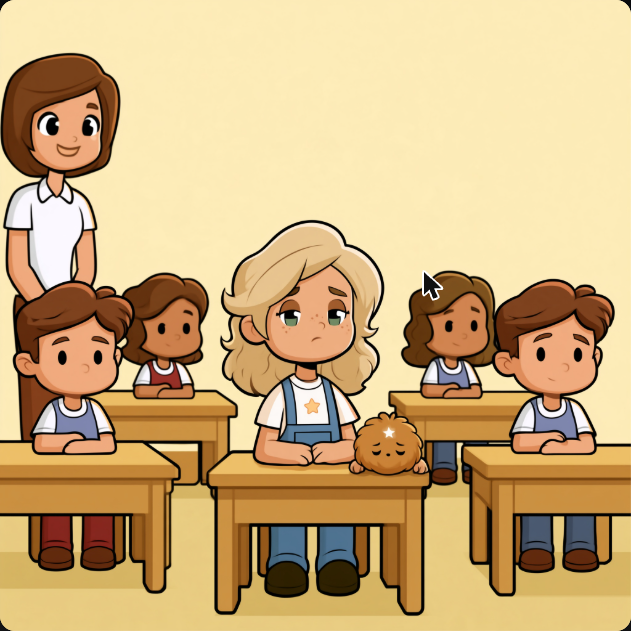
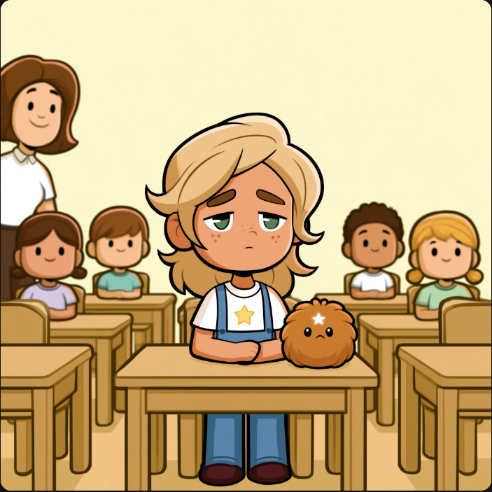
Strony 16–21: kandydaci wg rygoru twarzy / Pages 16–21: candidates with face rigor
Claude-Session: https://claude.ai/code/session_01J5W66USWz5i1aawWXjdiRy

diff --git a/strony/GOTOWE.md b/strony/GOTOWE.md
@@ -1,25 +1,19 @@
 # Strony książki / Book pages
-
 Lista stron: kandydaci (status „czeka”) i strony zaakceptowane (status „zaakceptowana”).
 List of pages: candidates (status "czeka" = waiting) and approved pages (status "zaakceptowana" = approved).
-
 ## Gdzie są pliki / Where the files are
-
 - **Pełna jakość (do druku)** / **Full quality (for print):** Midjourney → Organize → Folders → **„KSIAZKA strony gotowe”**.
   Każdy obrazek ma swój numer zadania (job ID) i numer wersji (index) w tabeli niżej.
   Each image has its job ID and version number (index) in the table below.
   Link do obrazka / Image link: `https://www.midjourney.com/jobs/<job ID>?index=<index>`
 - **Podgląd (mała jakość)** / **Preview (low quality):** folder `strony/gotowe/` w tym repozytorium.
   Podglądy służą tylko do sprawdzania, NIE do druku. / Previews are only for checking, NOT for print.
-
 > Dlaczego pełnej jakości nie ma na GitHubie? / Why is full quality not on GitHub?
 > Serwer Claude nie ma dostępu do plików Midjourney (cdn.midjourney.com jest zablokowany).
 > Na końcu, przy składaniu książki, pobierzemy cały folder „KSIAZKA strony gotowe” z Midjourney naraz.
 > Claude's server can't reach Midjourney files (cdn.midjourney.com is blocked).
 > At the end, when building the book, we download the whole "KSIAZKA strony gotowe" folder from Midjourney at once.
-
 ## Lista / List
-
 | Strona / Page | Co jest na obrazku / Scene | Job ID | Index | Podgląd / Preview | Status | Uwagi / Notes |
 |---|---|---|---|---|---|---|
 | 3–8 | (zrobione wcześniej przez użytkownika / made earlier by the user) | — | — | `strony/podglad/strona_03..08_podglad.png` | zaakceptowana | job ID do uzupełnienia / job IDs still to add |
@@ -30,7 +24,9 @@ List of pages: candidates (status "czeka" = waiting) and approved pages (status 
 | 13 | Kocyk na kanapie jak namiot, Amelia spokojna, Lumi świeci / Blanket tent on sofa, calm | 980e6b1a-c5dd-41c4-b972-1a4c0677e52c | 0 | `strony/gotowe/strona_13_podglad.png` | zaakceptowana (12.11) | dużo miejsca u góry / lots of space at top |
 | 14 | Przed szkołą, Amelia niepewna, Lumi wygląda zza ramienia / In front of school, unsure | 40a3b417-5055-4ad7-afef-1db0f47a8fa7 | 0 | `strony/gotowe/strona_14_podglad.png` | zaakceptowana (12.11) | wzór amelia_03_zagubiona; niebo na tekst / sky for text |
 | 15 | Hałaśliwy korytarz, dzwonek, dzieci biegną, Amelia zatyka uszy, kolczasty Lumi / Noisy hallway | 72abaa37-7648-4b52-bd94-1b7e57df71ef | 0 | `strony/gotowe/strona_15_podglad.png` | czeka | wzór amelia_04_halas; miejsce u góry / space at top |
-| 16 | Klasa widziana od tablicy, wszyscy przodem, Amelia zmęczona, Lumi leży na ławce / Classroom from the front | b9f29478-20a0-4c97-b4e0-8bc592d3c38f | 1 | `strony/gotowe/strona_16_podglad.png` | czeka | poprawione: wcześniej Amelia siedziała tyłem do klasy; tekst u góry po prawej |
-| 17 | Boisko, Amelia sama z kredą i gwiazdkami, dzieci daleko / Playground, alone with chalk | dd85807f-652d-41ca-a30b-5cdb489d79dc | 0 | `strony/gotowe/strona_17_podglad.png` | czeka | niebo na tekst / sky for text |
-| 18 | Pusty korytarz, Amelia idzie ze spuszczoną głową, gwiazdka Lumi zgasła / Empty corridor, head down | 3b381d58-7ac6-4d6a-9fec-2e3bfb702fb5 | 3 | `strony/gotowe/strona_18_podglad.png` | czeka | dużo miejsca u góry / lots of space |
-| 19 | Pod schodami, Amelia skulona płacze, Lumi obok / Under the stairs, crying | 54816de7-7665-4e3d-ac27-8494e29065c8 | 2 | `strony/gotowe/strona_19_podglad.png` | czeka | wzór amelia_07_placz_skulona; tekst w prawym górnym rogu |
+| 16 | Klasa widziana od przodu, wszyscy przodem, Amelia zmęczona, Lumi na ławce / Classroom from the front | d56fb3e3-5102-42a3-8a70-ac0041318324 | 2 | `strony/gotowe/strona_16_podglad.png` | czeka | 3. próba wg rygoru twarzy; tekst na żółtej ścianie u góry |
+| 17 | Boisko, Amelia sama z kredą i gwiazdkami, troje dzieci biegnie dalej / Playground, alone with chalk | b3374f9c-ef50-430d-8b74-dcdf6150fd4c | 2 | `strony/gotowe/strona_17_podglad.png` | czeka | baza 0232bca0-…(1); niebo na tekst; twarze dzieci w tle małe, ale kompletne |
+| 18 | Pusty korytarz, Amelia idzie ze spuszczoną głową, gwiazdka Lumi zgasła / Empty corridor, head down | ab2bf318-2e5e-4ebb-9962-19fae84ce91e | 0 | `strony/gotowe/strona_18_podglad.png` | czeka | baza 409949a8-…(1); twarz większa, Lumi ma oczy i usta |
+| 19 | Pod zamkniętymi schodami, Amelia skulona płacze, Lumi nad nią / Under the stairs, crying | d83f3324-51b6-4b91-9ace-c7b60f184d5a | 1 | `strony/gotowe/strona_19_podglad.png` | czeka | szelki widoczne; ściana na tekst u góry po lewej |
+| 20 | Pod schodami, Amelia odwraca wzrok od Lumi, gwiazdka prawie gaśnie / Looking away from Lumi | 523483ca-93e0-4947-8507-5a6b94689f49 | 3 | `strony/gotowe/strona_20_podglad.png` | czeka | szaroniebieskie, chłodne kolory; ściana na tekst u góry |
+| 21 | Deszcz za oknem, Amelia sama w kącie korytarza, cisza / Rain outside, quiet corner | b4f98d6b-165a-4962-ae68-441c642eb631 | 0 | `strony/gotowe/strona_21_podglad.png` | czeka | mało tekstu na tej stronie; miejsce na ścianie nad schodami |

diff --git a/prompty/log.md b/prompty/log.md
@@ -22,3 +22,11 @@ Every generation: date, page, references, job ID, result. The full prompt is sto
 | 12.11 | 17 | amelia_05_smutek + lumi_01 | b8bf2c47-07cf-49bf-9ce1-c643c70e1733 (1) → edycja dd85807f-652d-41ca-a30b-5cdb489d79dc (0) | kandydat |
 | 12.11 | 18 | amelia_05_smutek + lumi_01 | 3b381d58-7ac6-4d6a-9fec-2e3bfb702fb5 (3) | kandydat |
 | 12.11 | 19 | amelia_07_placz_skulona + lumi_01 | 54816de7-7665-4e3d-ac27-8494e29065c8 (2) | kandydat |
+| 12.11 | 16 | amelia_05_smutek_a (siedząca) + lumi_01 | 0d2b… (4 wersje) | odrzucone: Lumi na krześle zamiast ławki, za duży |
+| 12.11 | 16 | amelia_05_smutek (stojąca) + lumi_01 | d56fb3e3-5102-42a3-8a70-ac0041318324 (2) | kandydat (rygor twarzy) |
+| 12.11 | 17 | amelia_05_smutek + lumi_01 | 0232bca0-4858-43d7-90f7-16b87e3fdaaa (1) → edycja b3374f9c-ef50-430d-8b74-dcdf6150fd4c (2) | kandydat |
+| 12.11 | 18 | amelia_05_smutek + lumi_01 | 409949a8-332e-475f-84c4-4bed54dbcce5 (1) → edycja ab2bf318-2e5e-4ebb-9962-19fae84ce91e (0) | kandydat |
+| 12.11 | 19 | amelia_06_placz_stojac + lumi_01 | c7f16d39-… / f622e1b2-… | odrzucone: Lumi z łapkami, poręcze schodów (pionowe linie) |
+| 13.11 | 19 | amelia_06_placz_stojac + lumi_01 | d83f3324-51b6-4b91-9ace-c7b60f184d5a (1) | kandydat: zamknięte schody bez poręczy |
+| 13.11 | 20 | amelia_05_smutek + lumi_01 | 523483ca-93e0-4947-8507-5a6b94689f49 (3) | kandydat |
+| 13.11 | 21 | amelia_05_smutek + lumi_01 | b4f98d6b-165a-4962-ae68-441c642eb631 (0) | kandydat |

diff --git a/prompty/postep.md b/prompty/postep.md
@@ -84,3 +84,10 @@ Panel „Add images” (ikonka po lewej od pola promptu). Kolejność (najnowsze
 - Amelia ≥ ok. 1/3 wysokości obrazka, żeby mimika była czytelna.
 - Ponowne sprawdzenie stron 15–19 tym rygorem: 15 OK; 16 włosy za bujne; 17 dzieci w tle bez czytelnych twarzy;
   18 twarz Amelii i usta Lumi za małe; 19 nie widać szelek (zasłonięte rękami).
+
+## Wnioski 13.11 / Lessons
+- Schody: „closed wooden staircase, a solid wooden slope with closed sides, no railing and no balusters” + --no railing, balusters, banister. Poręcze dawały pionowe linie w miejscu na tekst.
+- Lumi bez łapek: „a simple round ball with no arms and no legs” + --no paws.
+- Szelki przy skulonej pozie: „arms hugging her shins low, so … both dungaree straps are clearly visible”.
+- Twarz czytelna: „the girl fills about half of the picture height” albo „medium-wide view”.
+- Klasa: wzór amelia_05_smutek (stojąca) daje lepszą twarz niż siedząca; Lumi „on top of her desk” zamiast „next to her hands”.
